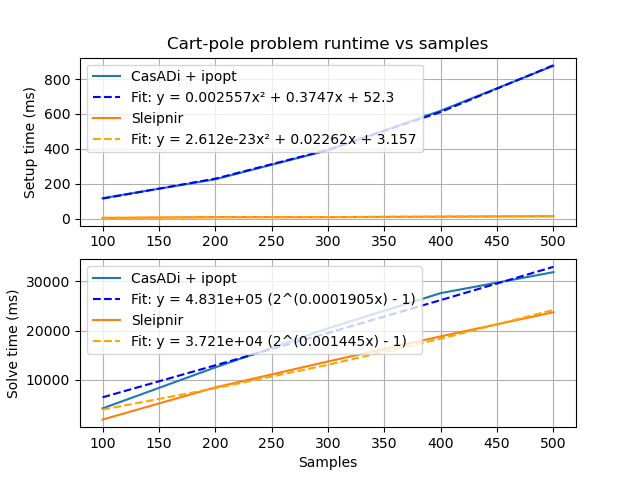
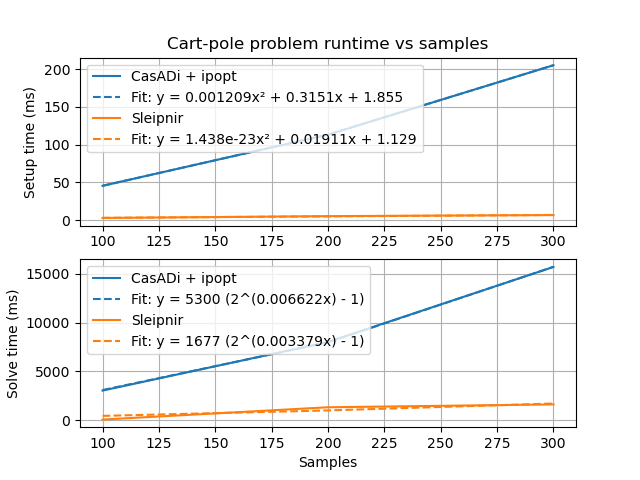
Fix s, y, and z vector autodiff (#251)
Fixes #46.

diff --git a/jormungandr/test/optimization/cart_pole_problem_test.py b/jormungandr/test/optimization/cart_pole_problem_test.py
@@ -135,8 +135,8 @@ def cart_pole_dynamics(x, u):
     # M(q) = [m_p l cosθ    m_p l²  ]
     M = VariableMatrix(2, 2)
     M[0, 0] = m_c + m_p
-    M[0, 1] = m_p * l * autodiff.cos(theta)
-    M[1, 0] = m_p * l * autodiff.cos(theta)
+    M[0, 1] = m_p * l * theta.cwise_transform(autodiff.cos)
+    M[1, 0] = m_p * l * theta.cwise_transform(autodiff.cos)
     M[1, 1] = m_p * l**2
 
     Minv = VariableMatrix(2, 2)
@@ -150,16 +150,16 @@ def cart_pole_dynamics(x, u):
     #           [0  −m_p lθ̇ sinθ]
     # C(q, q̇) = [0       0      ]
     C = VariableMatrix(2, 2)
-    C[0, 0] = autodiff.constant(0.0)
-    C[0, 1] = -m_p * l * thetadot * autodiff.sin(theta)
-    C[1, 0] = autodiff.constant(0.0)
-    C[1, 1] = autodiff.constant(0.0)
+    C[0, 0] = 0.0
+    C[0, 1] = -m_p * l * thetadot * theta.cwise_transform(autodiff.sin)
+    C[1, 0] = 0.0
+    C[1, 1] = 0.0
 
     #          [     0      ]
     # τ_g(q) = [-m_p gl sinθ]
     tau_g = VariableMatrix(2, 1)
-    tau_g[0, 0] = autodiff.constant(0.0)
-    tau_g[1, 0] = -m_p * g * l * autodiff.sin(theta)
+    tau_g[0, 0] = 0.0
+    tau_g[1, 0] = -m_p * g * l * theta.cwise_transform(autodiff.sin)
 
     #     [1]
     # B = [0]
@@ -172,7 +172,7 @@ def cart_pole_dynamics(x, u):
     return qddot
 
 
-@pytest.mark.skip(reason="Poor convergence")
+@pytest.mark.skip(reason='Fails with "bad search direction"')
 def test_direct_transcription():
     T = 5.0  # s
     dt = 0.005  # s
@@ -227,8 +227,7 @@ def test_direct_transcription():
     assert status.cost_function_type == ExpressionType.QUADRATIC
     assert status.equality_constraint_type == ExpressionType.NONLINEAR
     assert status.inequality_constraint_type == ExpressionType.LINEAR
-    # FIXME: Poor convergence
-    # assert status.exit_condition == SolverExitCondition.SUCCESS
+    assert status.exit_condition == SolverExitCondition.SUCCESS
 
     # Verify initial state
     assert near(0.0, X.value(0, 0), 1e-2)
@@ -256,7 +255,7 @@ def test_direct_transcription():
             dt,
         )
         actual_x_k1 = X[:, k + 1 : k + 2].value()
-        for row in range(actual_x_k1.rows()):
+        for row in range(actual_x_k1.shape[0]):
             assert near(expected_x_k1[row, 0], actual_x_k1[row, 0], 2e-1)
 
     # Verify final state

diff --git a/src/optimization/solver/InteriorPoint.cpp b/src/optimization/solver/InteriorPoint.cpp
@@ -260,9 +260,18 @@ Eigen::VectorXd InteriorPoint(
                       inequalityConstraints.size());
 
   // Create autodiff variables for s, y, and z for Lagrangian
-  VectorXvar sAD = VectorXvar::Ones(inequalityConstraints.size());
-  VectorXvar yAD = VectorXvar::Zero(equalityConstraints.size());
-  VectorXvar zAD = VectorXvar::Ones(inequalityConstraints.size());
+  VectorXvar sAD{inequalityConstraints.size()};
+  for (auto& s : sAD) {
+    s = Variable{detail::MakeExpressionPtr(1.0, ExpressionType::kLinear)};
+  }
+  VectorXvar yAD{equalityConstraints.size()};
+  for (auto& y : yAD) {
+    y = Variable{detail::MakeExpressionPtr(0.0, ExpressionType::kLinear)};
+  }
+  VectorXvar zAD{inequalityConstraints.size()};
+  for (auto& z : zAD) {
+    z = Variable{detail::MakeExpressionPtr(1.0, ExpressionType::kLinear)};
+  }
 
   // Lagrangian L
   //

diff --git a/test/src/optimization/CartPoleProblemTest.cpp b/test/src/optimization/CartPoleProblemTest.cpp
@@ -89,10 +89,8 @@ TEST(CartPoleProblemTest, DirectTranscription) {
   EXPECT_EQ(sleipnir::ExpressionType::kNonlinear,
             status.equalityConstraintType);
   EXPECT_EQ(sleipnir::ExpressionType::kLinear, status.inequalityConstraintType);
-  // FIXME: Poor convergence
-  // EXPECT_EQ(sleipnir::SolverExitCondition::kSuccess, status.exitCondition);
+  EXPECT_EQ(sleipnir::SolverExitCondition::kSuccess, status.exitCondition);
 
-#if 0
   // Verify initial state
   EXPECT_NEAR(0.0, X.Value(0, 0), 1e-2);
   EXPECT_NEAR(0.0, X.Value(1, 0), 1e-2);
@@ -126,7 +124,6 @@ TEST(CartPoleProblemTest, DirectTranscription) {
   EXPECT_NEAR(std::numbers::pi, X.Value(1, N), 1e-2);
   EXPECT_NEAR(0.0, X.Value(2, N), 1e-2);
   EXPECT_NEAR(0.0, X.Value(3, N), 1e-2);
-#endif
 
   // Log states for offline viewing
   std::ofstream states{"Cart-pole states.csv"};

diff --git a/benchmarks/scalability/CartPole/Main.cpp b/benchmarks/scalability/CartPole/Main.cpp
@@ -15,10 +15,10 @@ int main(int argc, char* argv[]) {
   constexpr auto T = 5_s;
 
   std::vector<int> sampleSizesToTest;
-  for (int N = 100; N < 500; N += 100) {
+  for (int N = 100; N < 300; N += 100) {
     sampleSizesToTest.emplace_back(N);
   }
-  sampleSizesToTest.emplace_back(500);
+  sampleSizesToTest.emplace_back(300);
 
   fmt::print("Solving cart-pole problem from N = {} to N = {}.\n",
              sampleSizesToTest.front(), sampleSizesToTest.back());

diff --git a/test/src/control/OCPRobotTest.cpp b/test/src/control/OCPRobotTest.cpp
@@ -82,7 +82,7 @@ TEST(OCPSolverTest, Robot) {
   EXPECT_EQ(sleipnir::ExpressionType::kNonlinear,
             status.equalityConstraintType);
   EXPECT_EQ(sleipnir::ExpressionType::kLinear, status.inequalityConstraintType);
-  // FIXME: Poor convergence
+  // FIXME: Fails with "bad search direction"
   // EXPECT_EQ(sleipnir::SolverExitCondition::kSuccess, status.exitCondition);
 
   // Log states for offline viewing

diff --git a/test/src/optimization/ArmOnElevatorProblemTest.cpp b/test/src/optimization/ArmOnElevatorProblemTest.cpp
@@ -101,6 +101,6 @@ TEST(ArmOnElevatorProblemTest, DirectTranscription) {
   EXPECT_EQ(sleipnir::ExpressionType::kLinear, status.equalityConstraintType);
   EXPECT_EQ(sleipnir::ExpressionType::kNonlinear,
             status.inequalityConstraintType);
-  // FIXME: Poor convergence
+  // FIXME: Fails with "bad search direction"
   // EXPECT_EQ(sleipnir::SolverExitCondition::kSuccess, status.exitCondition);
 }

diff --git a/jormungandr/test/optimization/arm_on_elevator_problem_test.py b/jormungandr/test/optimization/arm_on_elevator_problem_test.py
@@ -91,5 +91,5 @@ def test_direct_transcription():
     assert status.cost_function_type == ExpressionType.QUADRATIC
     assert status.equality_constraint_type == ExpressionType.LINEAR
     assert status.inequality_constraint_type == ExpressionType.NONLINEAR
-    # FIXME: Poor convergence
+    # FIXME: Fails with "bad search direction"
     # assert status.exit_condition == SolverExitCondition.SUCCESS

diff --git a/test/src/control/OCPCartPoleTest.cpp b/test/src/control/OCPCartPoleTest.cpp
@@ -82,7 +82,7 @@ TEST(OCPSolverTest, CartPoleProblem) {
   EXPECT_EQ(sleipnir::ExpressionType::kNonlinear,
             status.equalityConstraintType);
   EXPECT_EQ(sleipnir::ExpressionType::kLinear, status.inequalityConstraintType);
-  // FIXME: Poor convergence
+  // FIXME: Fails with "bad search direction"
   // EXPECT_EQ(sleipnir::SolverExitCondition::kSuccess, status.exitCondition);
 
 #if 0

diff --git a/README.md b/README.md
@@ -37,9 +37,7 @@ Sleipnir's internals are intended to be readable by those who aren't domain expe
   <td><img src="cart-pole-scalability-results.png" alt="cart-pole-results"/></td>
 </tr></table>
 
-Generated by [tools/generate-scalability-results.sh](https://github.com/SleipnirGroup/Sleipnir/tree/main/tools/generate-scalability-results.sh) from [benchmarks/scalability](https://github.com/SleipnirGroup/Sleipnir/tree/main/benchmarks/scalability) source on a i5-8350U with 16 GB RAM.
-
-WARNING: Sleipnir's cart-pole solve times are inaccurate because the solver doesn't converge properly (see [#46](https://github.com/SleipnirGroup/Sleipnir/issues/46)).
+Generated by [tools/generate-scalability-results.sh](https://github.com/SleipnirGroup/Sleipnir/tree/main/tools/generate-scalability-results.sh) from [benchmarks/scalability](https://github.com/SleipnirGroup/Sleipnir/tree/main/benchmarks/scalability) source on a AMD Ryzen 7 7840U with 64 GB RAM.
 
 ### How we improved performance
 
